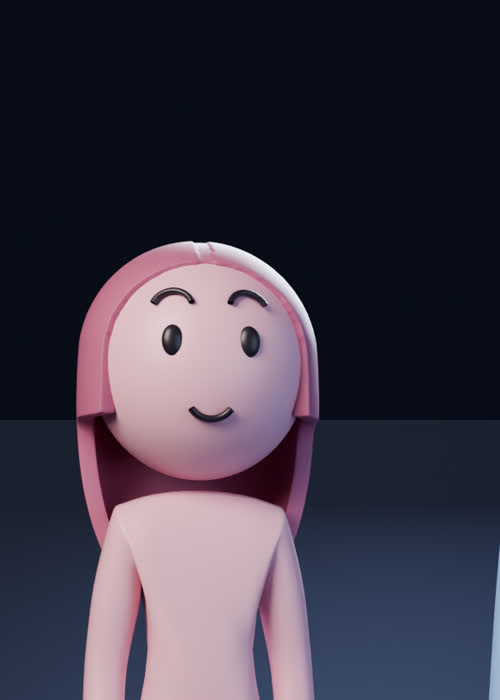
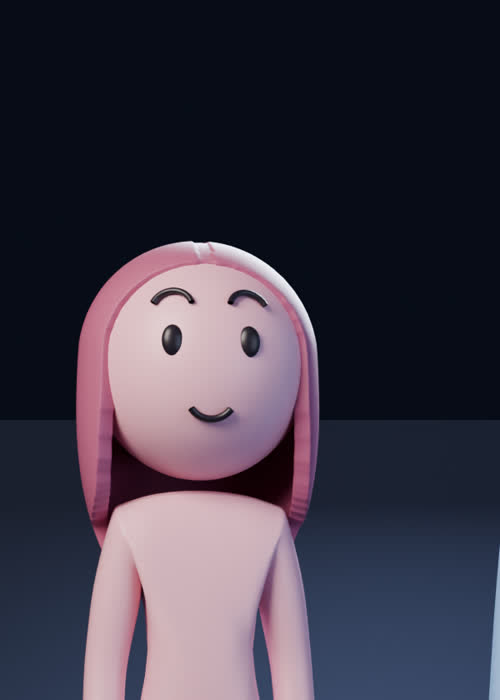
Hair edge runs smoothly from the forehead arch down the cheeks, no ledge
Claude-Session: https://claude.ai/code/session_01FQFJKx8X2643G2hLZWtcZT

Changed region(s): [[0.15, 0.57, 0.51, 0.78], [0.54, 0.57, 0.66, 0.78]]

diff --git a/blender_figures/figures.py b/blender_figures/figures.py
@@ -118,8 +118,10 @@ def figure(w):
         for v in bm.verts:
             d = v.co.normalized()
             # face window: narrow at the centre part, opening down to the cheeks (forehead + brows free)
-            face = d.y < -0.15 and (d.x / 0.8) ** 2 + ((d.z + 0.02) / 0.74) ** 2 < 1.0   # smooth arch over the forehead
-            chin = d.y < 0.05 and d.z < -0.2                            # nothing in front: hair falls only behind and at the sides
+            # face opening: a smooth arch over the forehead that continues straight down the cheeks (no ledge)
+            inside = ((d.x / 0.8) ** 2 + (d.z / 0.72) ** 2 < 1.0) if d.z >= 0 else abs(d.x) < 0.8
+            face = d.y < -0.15 and inside
+            chin = d.y < 0.05 and d.z < -0.2 and abs(d.x) < 0.8         # nothing in front of the neck
             if face or chin or d.z < -0.9: kill.append(v); continue
             rr = R * (1.07 + 0.02 * max(0, d.z))
             if abs(d.x) < 0.06 and d.z > 0.55: rr *= 0.985              # soft centre part
